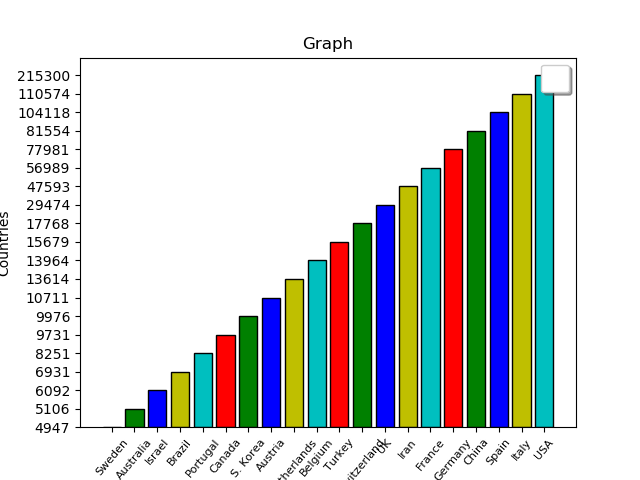
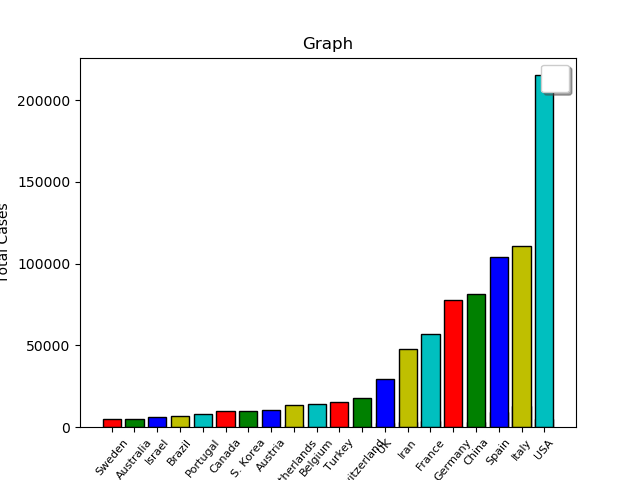
Add files

Changed region(s): [[0.1562, 0.1875, 0.8438, 0.9062], [0.0, 0.125, 0.125, 0.9062]]

diff --git a/App/templates/base.html b/App/templates/base.html
@@ -23,8 +23,8 @@
   </head>
   <body>
 
-      <nav class="navbar navbar-expand-lg navbar-light bg-light">
-          <a class="navbar-brand" href="#">Navbar</a>
+      <nav class="navbar navbar-expand-lg navbar-dark bg-dark mb-3">
+          <a class="navbar-brand" href="#">Corona<span class="text-danger">Virus</span></a>
           <button class="navbar-toggler" type="button" data-toggle="collapse" data-target="#navbarNavDropdown" aria-controls="navbarNavDropdown" aria-expanded="false" aria-label="Toggle navigation">
             <span class="navbar-toggler-icon"></span>
           </button>
@@ -33,6 +33,9 @@
               <li class="nav-item active">
                 <a class="nav-link" href="/">Home <span class="sr-only">(current)</span></a>
               </li>
+              <li class="nav-item">
+                  <a class="nav-link" href="">Population</a>
+              </li>
               <li class="nav-item dropdown">
                   <a class="nav-link dropdown-toggle" href="#" id="navbarDropdownMenuLink" data-toggle="dropdown" aria-haspopup="true" aria-expanded="false">
                     View Results
@@ -40,7 +43,7 @@
                   <div class="dropdown-menu" aria-labelledby="navbarDropdownMenuLink">
                     <a class="dropdown-item" href="/countrywise/">View by Countries</a>
                     <a class="dropdown-item" href="/indiastatewise/">View by India Cities</a>
-                    <a class="dropdown-item" href="#">Something else here</a>
+                    <a class="dropdown-item" href="/graph/">Show Graphs</a>
                   </div>
                 </li>
               <li class="nav-item">
@@ -53,13 +56,12 @@
           </form>
         </nav>
 
-    <div class="jumbotron jumbotron-fluid bg-dark text-white mt-1">
-      <div class="container d-flex justify-content-center">
-        <h1 class="display-4"><b>Corona<span class="text-danger">Virus</span> Tracker</b></h1>
-      </div>
+    <div class="jumbotron jumbotron-fluid mx-3 px-0 py-0">
+        <img src="{% static 'images/corona.jpg' %}" class="img-fluid" id="image" alt="Responsive image">
     </div>
 
     {% block body %} {% endblock %}
+    <div class="mb-3"></div>
     <script>
      var typed = new Typed('#typed',{
                     strings:["There is a current update of Coronavirus(COVID-19) disease!"],

diff --git a/App/templates/graphrepresentation.html b/App/templates/graphrepresentation.html
@@ -3,8 +3,19 @@
 {% block title %} CoronaVirus Tracker {% endblock %}
 {% block body %} 
 
+<div>
+    <h2 class="rounded-circle text-center mb-4 bg-info text-white mx-5 py-1">Graphs</h2>
+</div>
 <div class="container">
-        <img src="{% static 'images/photo.png' %}" class="img-fluid mb-5" alt="Responsive image"> 
+    <div class="row">
+        <div class="col">
+            <h2 class="text-center mb-4 bg-secondary text-white mx-5 py-1">Total Cases</h2>
+            <img src="{% static 'images/photo.png' %}" class="img-fluid mb-5" alt="Responsive image"> 
+        </div>
+        <div class="col">
+            <h2 class="text-center mb-4 bg-secondary text-white mx-5 py-1">Total Deaths</h2>
+            <img src="{% static 'images/photo1.png' %}" class="img-fluid mb-5" alt="Responsive image"> 
+        </div>
     </div>
 </div>
 {% endblock %}}

diff --git a/App/templates/searchcountrycases.html b/App/templates/searchcountrycases.html
@@ -4,13 +4,14 @@
 {% block body %} 
 
     <div class="container">
+      <h2 class="text-center mb-4 bg-dark text-white mx-5 py-1">Search</h2>
       <div class="container d-flex justify-content-center">
         <form method="post" action="/showcountrycases/" name="myform">{% csrf_token %}
           <div class="form-group mt-2">
             <label for="countryname" class="ml-1 text-dark"><b>Country Name</label>
             <input type="text" class="form-control text-center" id="countryname" name="countryname" value="">
           </div>
-          <div>
+          <div class="d-flex justify-content-center">
               <button class="btn btn-dark">Submit</button>
           </div>
         </form>

diff --git a/App/templates/showcountrycases.html b/App/templates/showcountrycases.html
@@ -4,6 +4,7 @@
 {% block body %} 
 
      <div class="container">
+        <h2 class="text-center mb-4 bg-secondary text-white mx-5 py-1">Search</h2>
     <div class="container d-flex justify-content-center">
       <form method="post" action="/showcountrycases/" name="myform">{% csrf_token %}
         <div class="form-group mt-2">

diff --git a/App/templates/indiadistrictwise.html b/App/templates/indiadistrictwise.html
@@ -4,6 +4,7 @@
 {% block body %} 
 
 <div class="container">
+  <h2 class="text-center mb-4 bg-dark text-white mx-5 py-1">India's District-Wise Cases</h2>
     <table class="table mt-4">
             <thead>
               <tr>

diff --git a/App/templates/indiastatewise.html b/App/templates/indiastatewise.html
@@ -4,6 +4,7 @@
 {% block body %} 
 
 <div class="container">
+  <h2 class="text-center mb-4 bg-dark text-white mx-5 py-1">India's State-Wise Cases</h2>
     <table class="table mt-4">
             <thead>
               <tr>

diff --git a/App/templates/countrywise.html b/App/templates/countrywise.html
@@ -4,7 +4,7 @@
 {% block body %} 
 
 <div class="container">
-
+  <h2 class="text-center mb-4 bg-dark text-white mx-5 py-1">Country-Wise Cases</h2>
     <table class="table mt-4">
             <thead>
               <tr>

diff --git a/App/views.py b/App/views.py
@@ -13,11 +13,11 @@ def index(request):
 				recovered = case[2]
 				newcases = case[3]
 				newdeaths = case[4]'''
-	confirmed = 2356
-	death = 7326
-	recovered = 82
+	confirmed = 10167932356
+	death = 53245
+	recovered = 213164
 	newcases = 722
-	newdeaths = 762
+	newdeaths = 362
 	casedetail = {'confirmed':confirmed,'death':death,'recovered':recovered,'newcases':newcases,'newdeaths':newdeaths}
 	return render (request,'index.html',casedetail)
 
@@ -53,8 +53,9 @@ def contactus(request):
 def map(request):
 	return render(request,"map.html")
 
-def graphCountryCases(request):
-	case = Coronavirus_Cases.countryCasesGraph()
+def graph(request):
+	case = Coronavirus_Cases.TotalCasesGraph()
+	Deathcases = Coronavirus_Cases.TotalDeathsGraph()
 	total_cases = case[0]
 	countries = case[1]
 	total_cases.reverse()
@@ -62,10 +63,10 @@ def graphCountryCases(request):
 	tc = [int(b) for b in total_cases]
 	col=['r','g','b','y','c']
 	a=np.arange(len(countries[185:]))
-	plt.bar(a,total_cases[185:],color=col,edgecolor='black')
-	plt.xlabel('Total Cases')
+	plt.bar(a,tc[185:],color=col,edgecolor='black')
+	plt.xlabel('Countries')
 	plt.title('Graph')
-	plt.ylabel('Countries')
+	plt.ylabel('Total Cases')
 	plt.legend(col,countries[185:],loc=1,ncol=10,borderpad=1,shadow=True,framealpha=1,frameon=True,)
 	plt.xticks(a,countries[185:],rotation=50,fontsize=8)
 	#plt.savefig('D:\\Coronavirus-COVID-19-Tracker\\App\\static\\images\\photo.png')

diff --git a/CoronaVirus_Cases/urls.py b/CoronaVirus_Cases/urls.py
@@ -27,5 +27,5 @@ urlpatterns = [
     path('countrywise/',views.countrywise,name='countrywise'),
     path('contactus/',views.contactus,name='contactus'),
     path('map/',views.map,name='map'),
-    path('graphCountryCases/',views.graphCountryCases,name='graphCountryCases'),
+    path('graph/',views.graph,name='graph'),
 ] 
